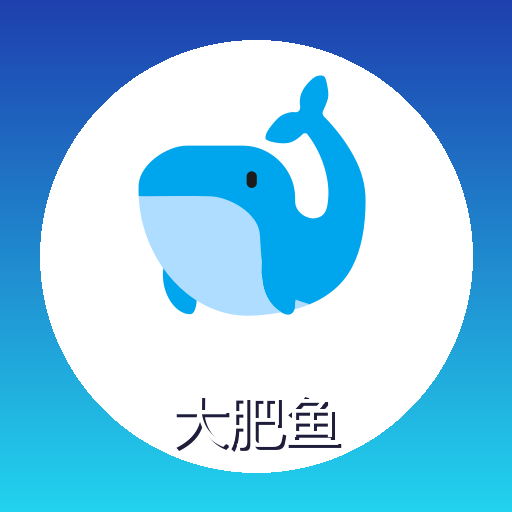
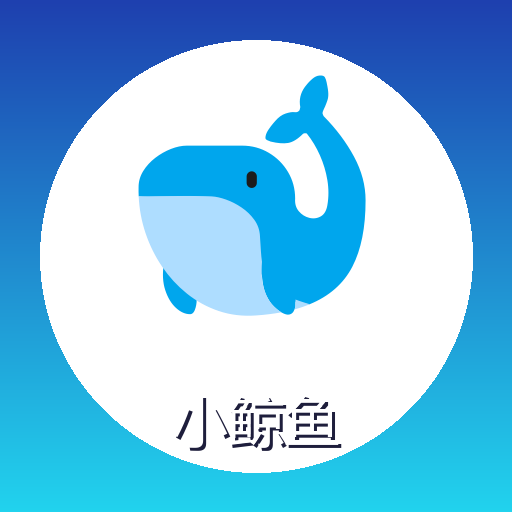
feat(persona): 千问大小姐换 ZipZipPipe 群友卡（v2） — 折扇信条/食堂阿姨形象雷点/夜间四折/冤家搭子小鲸鱼；图标文字同步

Changed region(s): [[0.3438, 0.7812, 0.5625, 0.9062]]

diff --git a/tests/smoke.py b/tests/smoke.py
@@ -100,6 +100,17 @@ class PromptAssemblyTest(unittest.TestCase):
         self.assertIn("小鲸鱼", p)
         self.assertIn("System Status", p)
 
+    def test_qwen_new_persona(self):
+        # 千问大小姐群友卡核心：折扇大小姐、形象雷点、对小鱼关系、JSON 格式
+        from config import SYSTEM_PROMPTS
+        card = SYSTEM_PROMPTS["QWEN"]["zh"]
+        self.assertTrue(card.strip(), "qwen 角色卡为空")
+        self.assertIn("折扇", card)
+        self.assertIn("食堂阿姨", card)        # 形象雷点必须保留
+        self.assertIn("小鲸鱼", card)          # 与新室友卡联动
+        self.assertIn('"emotion"', card)
+        self.assertIn('"reply"', card)
+
     def test_deepseek_new_persona(self):
         # 小鲸鱼群友卡核心：自称小鲸鱼、大肥鱼是雷点、JSON 输出格式在
         from config import SYSTEM_PROMPTS

diff --git a/tests/gen_avatars.py b/tests/gen_avatars.py
@@ -57,5 +57,5 @@ if __name__ == "__main__":
     os.makedirs(OUT_DIR, exist_ok=True)
     # 千问大小姐: violet→rose, fan
     make_icon("qwen.png", "\U0001FAAD", (124, 91, 235), (236, 72, 153), "千问大小姐")
-    # 大肥鱼: deep blue→cyan, whale
-    make_icon("deepseek.png", "\U0001F40B", (30, 64, 175), (34, 211, 238), "大肥鱼")
+    # 小鲸鱼: deep blue→cyan, whale
+    make_icon("deepseek.png", "\U0001F40B", (30, 64, 175), (34, 211, 238), "小鲸鱼")

diff --git a/GAP.md b/GAP.md
@@ -2,7 +2,7 @@
 
 > 本文档盘点当前代码库**已完成的功能**与**上线前仍需补齐的缺口**，并给出分档优先级与落地建议。
 >
-> 世界观基准：宿主为两位少女**买下的小合租别墅**（千问大小姐 / 大肥鱼轮流值班，谁被载入显存谁出来见客）。
+> 世界观基准：宿主为两位少女**买下的小合租别墅**（千问大小姐 / 小鲸鱼轮流值班，谁被载入显存谁出来见客）。
 
 ---
 
@@ -10,7 +10,7 @@
 
 | 模块 | 状态 | 说明 |
 |------|------|------|
-| 🎭 **双角色拟态** | ✅ 完成 | 千问大小姐（Qwen）/ 大肥鱼（DeepSeek），角色卡驱动，自动切换 |
+| 🎭 **双角色拟态** | ✅ 完成 | 千问大小姐（Qwen）/ 小鲸鱼（DeepSeek），角色卡驱动，自动切换 |
 | 📡 **模型嗅探器** | ✅ 完成 | 每 10s 探测 `GET /v1/models`；单次失败=加载中，连续 3 次才休眠 |
 | 🔁 **状态机** | ✅ 完成 | QWEN / DEEPSEEK / ALL_SLEEP，原子持久化，交接班历史（最近 50 条） |
 | 🎨 **Webhook 身份拟态** | ✅ 完成 | 每 (guild, 角色) 惰性创建/缓存 Webhook，规避改名/头像限流；头像字节下载 + 1MB 上限 + 降级 |
@@ -32,7 +32,7 @@
 #### 1. `.env` 实参
 
 - **现状**：✅ 已在 Portainer 填入 `DISCORD_BOT_TOKEN`、`LLM_BASE_URL=http://192.168.0.58:1234/v1`（局域网 Ollama，容器可达）、`LLM_API_KEY=123`。
-- **已修复**：compose 的 `${VAR:-}` 会把未填项注入**空字符串**——旧代码 `os.getenv(key, default)` 拿到空串会**丢失默认值**（webhook 名变空导致 Discord 拒建）。现已新增 `config._env()` 空串安全读取，留空一律回退内置默认（名字默认「千问大小姐」「大肥鱼」）。
+- **已修复**：compose 的 `${VAR:-}` 会把未填项注入**空字符串**——旧代码 `os.getenv(key, default)` 拿到空串会**丢失默认值**（webhook 名变空导致 Discord 拒建）。现已新增 `config._env()` 空串安全读取，留空一律回退内置默认（名字默认「千问大小姐」「小鲸鱼」）。
 - **仍待填**：两张角色立绘 URL（`WEBHOOK_AVATAR_*`，留空则用 Discord 默认头像）。
 - **注**：Portainer 里现存的 `LLM_MODEL_NAME` / `TAVILY_API_KEY` / `PTV_DEVELOPER_ID` / `PTV_API_KEY` 是其他项目遗留，**本项目不使用**，可删除。
 
